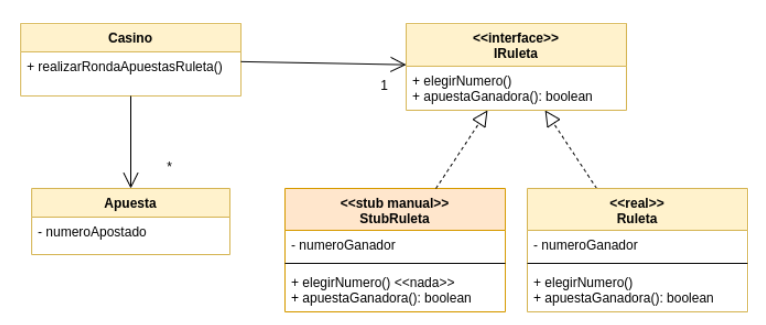
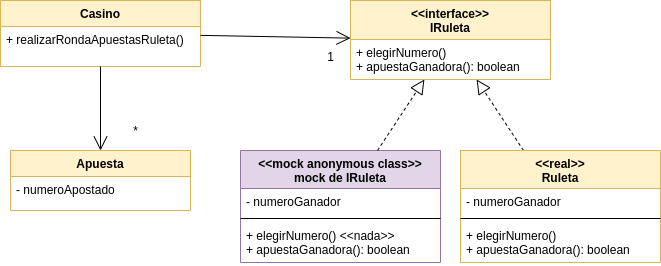
Adding new branch

Changed region(s): [[0.0, 0.0, 0.8472, 0.812], [0.3631, 0.4511, 1.0, 0.9925]]

diff --git a/src/test/kotlin/RuletaTest.kt b/src/test/kotlin/RuletaTest.kt
@@ -2,6 +2,10 @@ import io.kotest.core.spec.IsolationMode
 import io.kotest.core.spec.style.DescribeSpec
 import io.kotest.matchers.collections.shouldBeIn
 import io.kotest.matchers.collections.shouldNotBeIn
+import io.mockk.every
+import io.mockk.mockk
+import io.mockk.slot
+import java.awt.image.ShortLookupTable
 
 class RuletaTest : DescribeSpec({
 //    isolationMode = IsolationMode.InstancePerTest
@@ -12,7 +16,7 @@ class RuletaTest : DescribeSpec({
             val apuestaPerdedora = Apuesta(2, "looser@roulette.com")
             val casino = Casino().apply {
                 // controlamos el número ganador de la ruleta
-                ruleta = StubRuleta(5)
+                ruleta = stubRuleta(5)
                 //
                 apostar(apuestaGanadora)
                 apostar(apuestaPerdedora)
@@ -27,3 +31,12 @@ class RuletaTest : DescribeSpec({
         }
     }
 })
+
+fun stubRuleta(numeroGanador: Int): IRuleta {
+    val ruleta = mockk<IRuleta>(relaxUnitFun = true)
+
+    every { ruleta.apuestaGanadora(apuesta = any()) } answers { firstArg<Apuesta>().numeroApostado == numeroGanador }
+
+    return ruleta
+}
+

diff --git a/README.md b/README.md
@@ -3,46 +3,27 @@
 
 [![Build](https://github.com/uqbar-project/eg-ruletas-kotlin/actions/workflows/gradle-build.yml/badge.svg?branch=stubbing-roulette)](https://github.com/uqbar-project/eg-ruletas-kotlin/actions/workflows/gradle-build.yml) [![codecov](https://codecov.io/gh/uqbar-project/eg-ruletas-kotlin/branch/master/graph/badge.svg?token=RdVlEzRc3G)](https://codecov.io/gh/uqbar-project/eg-ruletas-kotlin?branch=stubbing-roulette)
 
-## Branch stubbing-roulette
+## Branch stubbing-roulette-mockk
 
-Arreglamos los _flaky tests_ implementando un _stub_ manual que permite configurar el número ganador de la ruleta virtual:
+En esta variante en lugar de construir nosotros un stub vamos a delegar en el framework [Mockk](https://mockk.io/) la creación del objeto impostor.
+
+Para ello en el test invocamos a una función que crea un **objeto anónimo que respeta la interfaz IRuleta**:
 
 ```kt
-class StubRuleta(val numeroGanador: Int) : IRuleta {
-    override fun elegirNumero() {}
+fun stubRuleta(numeroGanador: Int): IRuleta {
+    val ruleta = mockk<IRuleta>(relaxUnitFun = true)
 
-    override fun apuestaGanadora(apuesta: Apuesta) = apuesta.numeroApostado == numeroGanador
+    every { ruleta.apuestaGanadora(apuesta = any()) } answers { firstArg<Apuesta>().numeroApostado == numeroGanador }
+
+    return ruleta
 }
 ```
 
-En el test reemplazamos la ruleta que elige números al azar por una ruleta fija, que nos permite controlar el número ganador:
+- La función `mockk` trabaja con Generics, se tipa como IRuleta, de esa manera sabemos qué métodos tenemos que definir
+- El parámetro `relaxUnitFun` permite crear un **relaxed stub**, esto significa que por defecto todos los métodos que no devuelvan nada (Unit) se definen con un comportamiento vacío (no necesitamos explícitamente decirle a Mockk que el método `elegirNumero()` no hace nada, como pasaba en el stub manual)
+- Luego la función `every ... answer` permite definir que cuando el objeto ruleta que estamos creando recibe el mensaje apuestaGanadora, con cualquier apuesta (`any()`), responderemos que sí o que no basado en que el número apostado sea el número que nosotros definimos como ganador (es el parámetro de la función `stubRuleta`)
 
-```kt
-describe("Cuando sale un número") {
-    val apuestaGanadora = Apuesta(5, "winner@roulette.com")
-    val apuestaPerdedora = Apuesta(2, "looser@roulette.com")
-    val casino = Casino().apply {
-        // controlamos el número ganador de la ruleta
-        ruleta = StubRuleta(5)
-        //
-        apostar(apuestaGanadora)
-        apostar(apuestaPerdedora)
-    }
-```
-
-De esa manera sabemos fehacientemente que quien apostó al 5 debería ganar, y el que apuesta al 2 pierde:
-
-```kt
-val apuestasGanadoras = casino.realizarRondaApuestasRuleta()
-it("La apuesta ganadora se devuelve") {
-    apuestaGanadora shouldBeIn apuestasGanadoras
-}
-it ("La apuesta perdedora se filtra") {
-    apuestaPerdedora shouldNotBeIn apuestasGanadoras
-}
-```
-
-El objeto impostor es un _stub_ sobre la ruleta, porque nuestros tests estudian el estado en el que queda la aplicación (preguntando por las apuestas ganadoras). Este approach se parece bastante a lo que venimos trabajando hasta el momento.
+El objeto impostor sigue siendo un _stub_ sobre la ruleta, porque nuestros tests estudian el estado en el que queda la aplicación (preguntando por las apuestas ganadoras). Este approach se parece bastante a lo que venimos trabajando hasta el momento.
 
 ## Diagrama de clases de la solución
 
